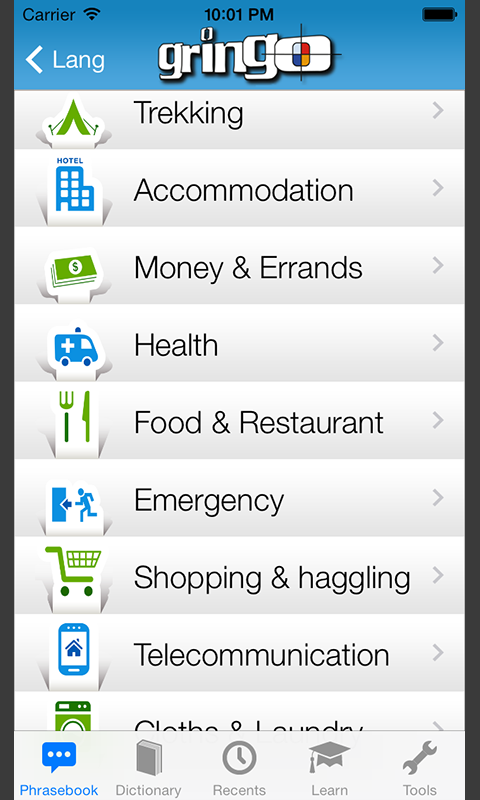
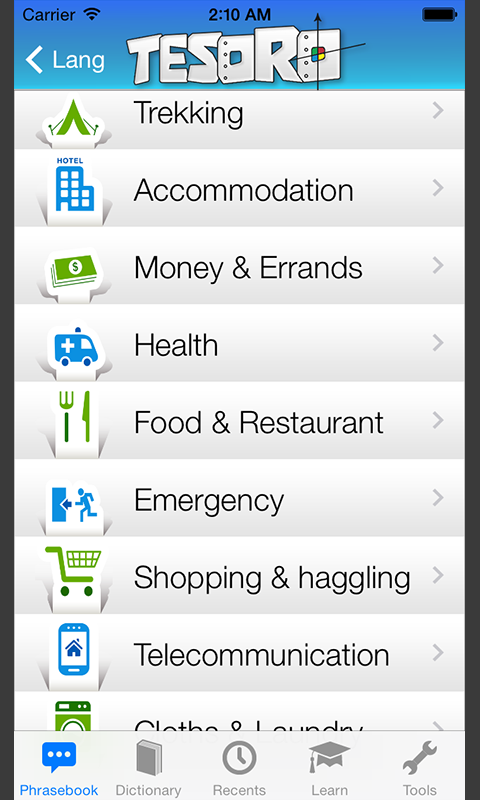
Tesoro change

Changed region(s): [[0.0312, 0.0, 0.9688, 0.125]]

diff --git a/index.html b/index.html
@@ -13,7 +13,7 @@
 		<title>Gringo Phrasebook app</title>
 		<meta name="author" content="OwlPixel">
 		<!-- <meta name="keywords" content="responsive, html5 template, landing, mobile app, business, corporate, project, bootstrap 3.0.3, jquery 2.0.3"> -->
-		<meta name="description" content="Gringo Phrasebook app - The swiss army knife Phrasebook & Dictionary app for latin-america travellers! ">		
+		<meta name="description" content="Tesoro - must-have Phrasebook & Dictionary app for latin-america travellers! ">		
 		
 		<!-- Mobile Specific Metas -->
 		<meta name="viewport" content="width=device-width, initial-scale=1, maximum-scale=1">		
@@ -102,7 +102,7 @@
 								
 						<!-- Banner Description -->
 						<div id="tp_banner_description" class="col-sm-6">
-							<h1>Gringo Phrasebook app is the swiss army knife app for latin-america travellers!</h1>
+							<h1>Tesoro is the must-have Phrasebook & Dictionary app for latin-america travellers!</h1>
 										
 							<p>Hundreds of hand-picked Spanish and Portuguese phrases divided into 20+ useful everyday topics. Extensive searchable bidirectional dictionary. Language basics, slang and verb conjugations. Listen to the correct pronounciation of the phrase or word by tapping it. 
 							</p>
@@ -110,7 +110,7 @@
 							<!-- Banner Buttons -->
 							<div class="tp_banner_btn">
 								<!--<a href="#" class="btn btn-black btn-lg">Download the App</a>-->
-								<a href="http://bit.ly/1iPaGt6">
+								<a href="http://bit.ly/tesoroapp">
 								<img src="img/icons/btn-app-store.png" alt="Get app"/>
 								<a id="GoToMainContent" href="#features" class="btn btn-black btn-lg">Discover More</a>
 							</div>
@@ -137,7 +137,7 @@
 					<div class="row">
 						<div class="col-sm-12 titlebar text-center">
 							<h1>What You’re Getting</h1>
-							<p>Few words about the app powerful features. Gringo Phrasebook is the best companion for your latin america and Spain travel plan.</p>	
+							<p>Few words about the app powerful features. Tesoro is the best companion for your latin america and Spain travel plan.</p>	
 						</div>
 					</div>
 					
@@ -231,7 +231,7 @@
 					<div class="row">
 						<div class="col-sm-12 titlebar">
 							<h1>Screenshots Gallery</h1>
-							<p>Take a look at Gringo Phrasebook screenshots. </p>
+							<p>Take a look at Tesoro's screenshots. </p>
 						</div>
 					</div>
 										
@@ -408,7 +408,7 @@
 									<li>
 										<div class="testimonials">
 											<div class="client-msg">													
-												<p>&laquo; Crossing to Brazil from Colombia posed a serious challenge for me, after I got used to communicate in Spanish I had to switch to Portuguese, Gringo Phrasebook really eased the transision..  &raquo; 
+												<p>&laquo; Crossing to Brazil from Colombia posed a serious challenge for me, after I got used to communicate in Spanish I had to switch to Portuguese, Tesoro really eased the transision..  &raquo; 
 												</p>
 												<p class="author"><strong>Jonathan Kalmer</strong> <span>Pro Surfer</span></p>
 											</div>
@@ -490,7 +490,7 @@
 				<div class="row">
 					<div class="col-sm-12 titlebar text-center">
 						<p><p>
-						or you can email us: <a href="mailto:support@gringophrasebookapp.com">support@gringophrasebookapp.com</a>
+						or you can email us: <a href="mailto:support@tesoroapp.com">support@tesoroapp.com</a>
 					</div>
 				</div>
 			</section>	 <!-- END CONTACTS SECTION -->
@@ -512,10 +512,10 @@
 						<!-- FOOTER SOCIAL ICONS -->
 						<div id="footer_icons" class="col-md-6">																	
 							<ul class="footer-socials pull-right clearfix">
-								<li><a class="foo_social ico-facebook" href="https://www.facebook.com/gringophrasebook"><i class="fa fa-facebook"></i></a></li>
-								<li><a class="foo_social ico-google-plus" href="https://plus.google.com/b/109545235560840107389/109545235560840107389/posts"><i class="fa fa-google-plus"></i></a></li>
-								<li><a class="foo_social ico-apple" href="http://bit.ly/1iPaGt6"><i class="fa fa-apple"></i></a></li>
-								
+								<li><a class="foo_social ico-facebook" href="https://www.facebook.com/tesoroapp"><i class="fa fa-facebook"></i></a></li>
+								<li><a class="foo_social ico-google-plus" href="http://www.google.com/+tesoro"><i class="fa fa-google-plus"></i></a></li>
+								<li><a class="foo_social ico-apple" href="http://bit.ly/tesoroapp"><i class="fa fa-apple"></i></a></li>
+								<a href="https://plus.google.com/109545235560840107389" rel="publisher">Google+</a> <!-- google+ -->
 							<!--
 								<li><a class="foo_social ico-linkedin" href="#"><i class="fa fa-linkedin"></i></a></li>
 								<li><a class="foo_social ico-dribbble" href="#"><i class="fa fa-dribbble"></i></a></li>
@@ -572,16 +572,15 @@
 		
 		<!-- Google Analytics: Change UA-XXXXX-X to be your site's ID. Go to http://www.google.com/analytics/ for more information. -->
 		<script>
-			(function(i,s,o,g,r,a,m){i['GoogleAnalyticsObject']=r;i[r]=i[r]||function(){
-				(i[r].q=i[r].q||[]).push(arguments)},i[r].l=1*new Date();a=s.createElement(o),
-				m=s.getElementsByTagName(o)[0];a.async=1;a.src=g;m.parentNode.insertBefore(a,m)
-			})(window,document,'script','//www.google-analytics.com/analytics.js','ga');
+		  (function(i,s,o,g,r,a,m){i['GoogleAnalyticsObject']=r;i[r]=i[r]||function(){
+		  (i[r].q=i[r].q||[]).push(arguments)},i[r].l=1*new Date();a=s.createElement(o),
+		  m=s.getElementsByTagName(o)[0];a.async=1;a.src=g;m.parentNode.insertBefore(a,m)
+		  })(window,document,'script','//www.google-analytics.com/analytics.js','ga');
 
-			ga('create', 'UA-48407403-1', 'gringophrasebookapp.com');
-			ga('send', 'pageview');
+		  ga('create', 'UA-48407403-1', 'tesoroapp.com');
+		  ga('send', 'pageview');
 
 		</script>
-
 
 	</body>
 	

diff --git a/css/style.css b/css/style.css
@@ -201,7 +201,8 @@ ul {
 /*------------------------------------------*/
 
 .navbar-brand {
-	padding: 15px;
+	padding: 8px;
+/*	background-color:#444;*/
 }   
       
 /*------------------------------------------*/
@@ -209,18 +210,19 @@ ul {
 /*------------------------------------------*/
 
 .navbar-nav > li > a {
-	color: #aaa;	
+	color: #aaa;
+/*	background-color: #444;*/
 	font-size: 13px;
 	line-height: 60px;
 	font-weight: 700;
 	text-transform: uppercase;
 	display: block;
 	padding: 0 15px;
-	-webkit-transition: all 250ms ease-in-out;
-	-moz-transition: all 250ms ease-in-out;
-	-o-transition: all 250ms ease-in-out;
-	-ms-transition: all 250ms ease-in-out;
-	transition: all 250ms ease-in-out;
+	-webkit-transition: all 300ms ease-in-out;
+	-moz-transition: all 300ms ease-in-out;
+	-o-transition: all 300ms ease-in-out;
+	-ms-transition: all 300ms ease-in-out;
+	transition: all 300ms ease-in-out;
 }
 
 .navbar-nav > li > a:hover {
@@ -238,7 +240,7 @@ ul {
 .navbar-toggle {
     position: relative;
     float: right;
-	background-color: none;
+	background-color: #444;
     padding: 10px;
 	margin: 13px 30px 13px 0;
 	border: none;
